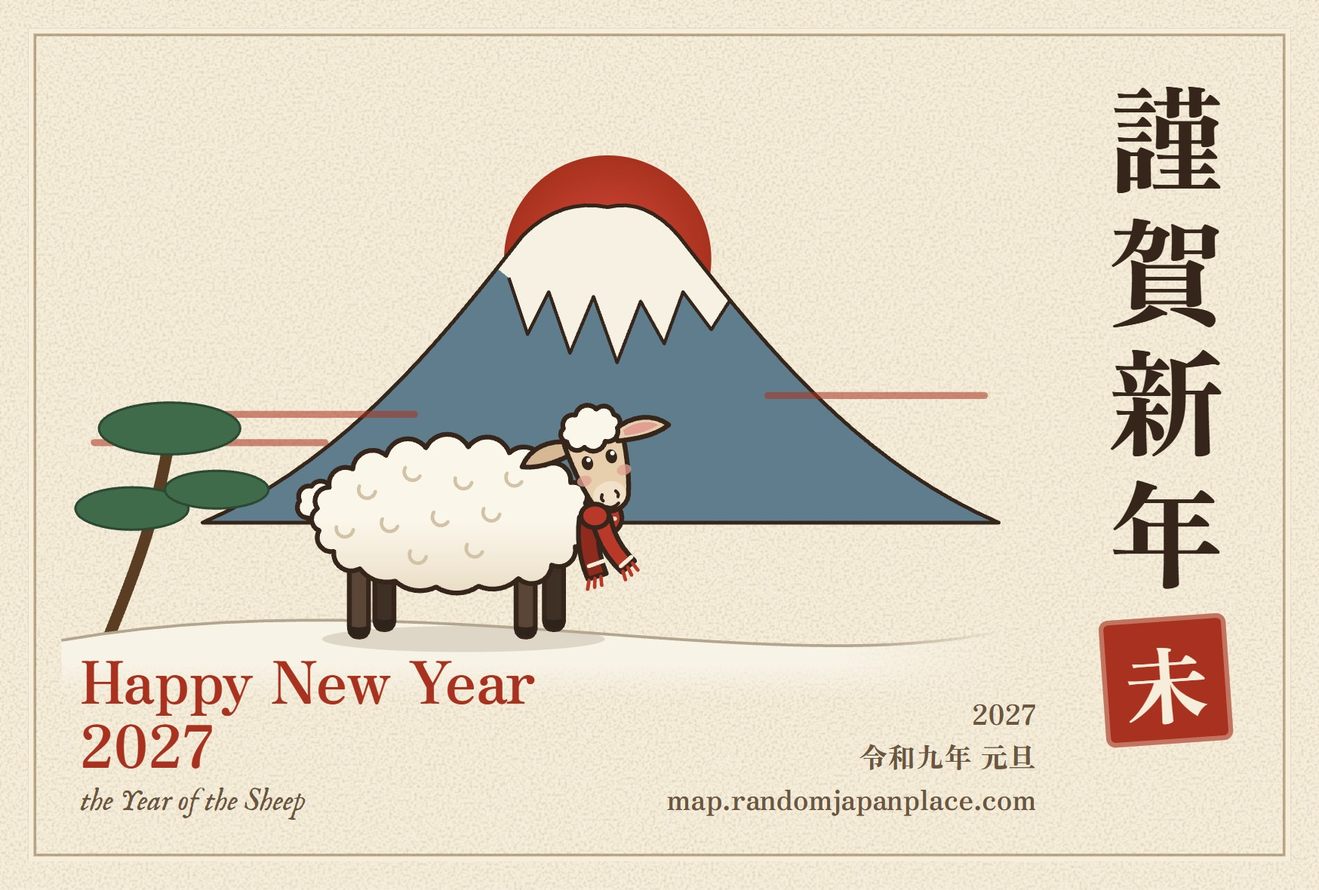
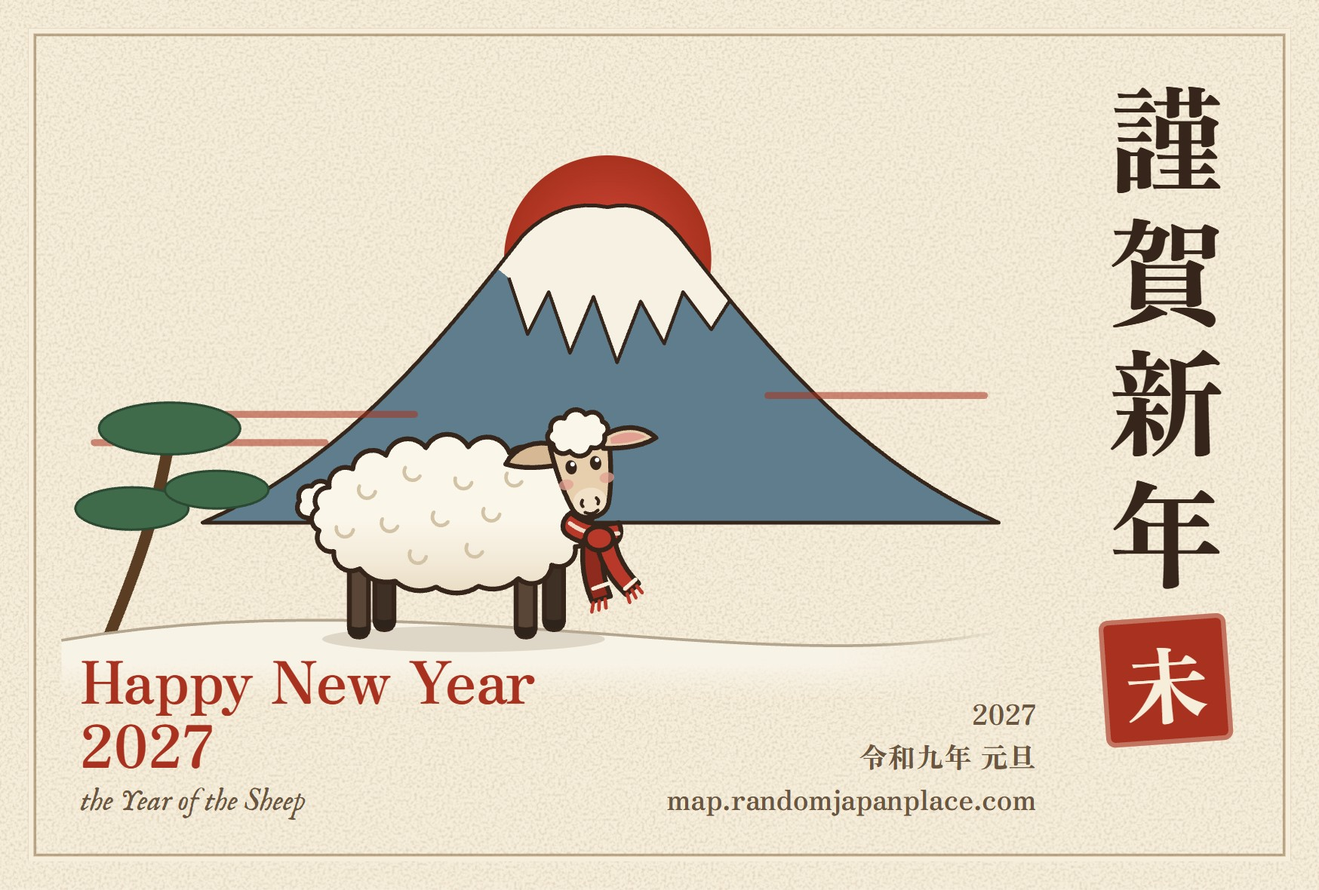
Calendrier de l'Avent (mode développeur) : la tête du mouton accrochée, le fond d'écran du prénom sur papier washi.
Le propriétaire : « Il faut accrocher la tête du mouton et le fond du fond d'écran du prénom peut être en style papier washi. »

- Carte de vœux (case 15) : la tête du mouton est posée plus bas et plus en arrière, sur l'avant de la toison (le cou est caché, l'oreille du côté loin repose sur la laine) ; l'écharpe sort de sous la tête et passe sous le menton.
- Case 1 : le fond d'écran du prénom est sur un papier washi fabriqué par calcul (noel/washi.jpg, 1170 × 2532 ; noel/washi-apercu.jpg pour l'aperçu) : pâte crème nuageuse, traces du tamis, longues fibres de kōzo claires et effilées, quelques brins dorés et d'écorce. Il remplace le papier de journal et son grain.
- L'aperçu de la case : le sceau et INKAMI.ART aux mêmes tailles et places que sur l'image.

Changed region(s): [[0.3707, 0.4271, 0.5252, 0.7017]]

diff --git a/site/noel.js b/site/noel.js
@@ -5,7 +5,7 @@
 // Les cadeaux pas encore faits (pret: false) montrent « En préparation » en mode développeur.
 // Maquette choisie par le propriétaire : l'artifact « Calendrier de l'Avent de la carte ».
 import { echapper, typoFr, partagerFichier, telecharger, tactile } from './commun.js';
-import { chargerImage, adresseGrain } from './bravo-image.js';
+import { chargerImage } from './bravo-image.js';
 import { DESSINS } from './legendes-dessins.js';
 
 const MEMOIRE = 'calendrierOuvert'; // les cases ouvertes (numéros des jours)
@@ -706,26 +706,17 @@ export function brancherNoel(outils) {
     return div;
   }
 
-  /** Le fond d'écran du prénom : 1170 × 2532 (un téléphone), papier de journal, katakana au pinceau, sceau Inkami. */
+  /** Le fond d'écran du prénom : 1170 × 2532 (un téléphone), papier washi (noel/washi.jpg), katakana au pinceau, sceau Inkami. */
   async function fondPrenom(nom) {
     const k = enKatakana(nom) || 'エマ';
     const L = FOND_L, H = FOND_H;
     await document.fonts.load(`200px ${POLICE_PINCEAU}`, k);
-    const [grain, sceau] = await Promise.all([chargerImage(adresseGrain()), chargerImage('noel/sceau-inkami.png')]);
+    const [washi, sceau] = await Promise.all([chargerImage('noel/washi.jpg'), chargerImage('noel/sceau-inkami.png')]);
     const can = document.createElement('canvas');
     can.width = L; can.height = H;
     const c = can.getContext('2d');
-    c.fillStyle = '#ece0d0';
-    c.fillRect(0, 0, L, H);
-    const motif = c.createPattern(grain, 'repeat');
-    motif.setTransform(new DOMMatrix().scale(3));
-    c.fillStyle = motif;
-    c.fillRect(0, 0, L, H);
-    const v = c.createRadialGradient(L / 2, H / 2, H * 0.25, L / 2, H / 2, H * 0.62);
-    v.addColorStop(0, 'rgba(120, 90, 50, 0)');
-    v.addColorStop(1, 'rgba(120, 90, 50, 0.22)');
-    c.fillStyle = v;
-    c.fillRect(0, 0, L, H);
+    // le papier washi (fibres de kōzo, bords un peu plus sombres), fabriqué à la taille de l'image
+    c.drawImage(washi, 0, 0, L, H);
 
     // les katakana, en colonne, dans le bas des deux tiers (le haut reste à l'heure de l'écran verrouillé)
     const signes = [...k];

diff --git a/site/noel.css b/site/noel.css
@@ -116,11 +116,11 @@ body.noel #carte.loin .repere-tete::after { width: auto; height: auto; backgroun
 .noel-champ small { font-size: 11.5px; color: var(--encre-douce, #6a5540); }
 .noel-telephone { width: 104px; aspect-ratio: 1170 / 2532; border-radius: 16px; overflow: hidden; box-shadow: 0 0 0 4px #1d1814, 0 2px 8px rgba(40, 26, 12, .35); margin: 4px; container-type: inline-size; }
 /* le fond d'écran en petit : noel.js place la colonne et le nom en % de la hauteur, la taille en cqw (comme sur l'image) */
-.noel-papier { position: relative; height: 100%; background-color: #ece0d0; background-image: var(--grain); }
+.noel-papier { position: relative; height: 100%; background: #eee5d4 url(noel/washi-apercu.jpg) center / cover; }
 .noel-kata { position: absolute; left: 50%; transform: translateX(-50%); font-family: "Inkami Pinceau", serif; color: #15100e; writing-mode: vertical-rl; text-orientation: upright; line-height: 1; white-space: nowrap; }
 .noel-latin { position: absolute; left: 6%; right: 6%; transform: translateY(-50%); transform-origin: 50% 50%; text-align: center; font: 600 3.76cqw/1 var(--police); letter-spacing: 1.2cqw; /* 44 px et 14 px sur 1 170, comme sur l'image */ color: #15100e; text-transform: uppercase; white-space: nowrap; overflow: hidden; text-overflow: clip; }
-.noel-sceau { position: absolute; bottom: 6%; right: 8%; width: 17px; transform: rotate(-4deg); }
-.noel-adresse { position: absolute; bottom: 5%; left: 9%; font: 600 4.5px/1 var(--police); letter-spacing: .12em; color: #15100e; opacity: .6; }
+.noel-sceau { position: absolute; bottom: 2.86%; right: 8.55%; width: 11.97cqw; transform: rotate(-4deg); } /* 140 px de large, centré à 170 px du coin, comme sur l'image */
+.noel-adresse { position: absolute; top: 95.26%; left: 8.2%; transform: translateY(-50%); font: 600 2.22cqw/1 var(--police); letter-spacing: .43cqw; color: #15100e; opacity: .6; } /* 26 px à 96 px du bord, 120 px du bas */
 
 /* les cadeaux à télécharger : l'aperçu a la forme de la chose (téléphone, page, carte postale, calendrier) */
 .noel-fichier { display: grid; justify-items: center; gap: 10px; }

diff --git a/instructions/carte.md b/instructions/carte.md
@@ -410,14 +410,14 @@ On 2026-11-10 the owner asked to prepare Christmas: an Advent calendar from 1 to
 - **When.** `CONFIG.noel = { debut: '2026-12-01', fin: '2026-12-26', public: false }`. `noelVoulu` (`app.js`): never after `fin` nor with `?ambiance=non`; always in developer mode before `fin` (also before `debut`, to prepare it); else only if `public`, from `debut`. `majNoel` runs like `majHalloween` (1.8 s after start, every minute, in `basculerDev`).
 - **`noel.js`** (its own `TEXTES`, en/fr/ja for the interface). `CASES`: `j`, `k` (`boutique`, `telecharger`, `balade`, `carte`), `lieu` (the place's id: slug of its English name, as in `?voyage=`), `pret` (the gift exists), `special` (`prenom`), `fichier` (a download: see « The downloads »), `code`, and `cadeau`/`texte`/`deco`/`savais` in en and fr (`cadeau` also in ja; the rest falls back to English in Japanese: write it before the release). `jourReel()`: 0 before 1 December, 1–24, 25 after (local dates, days counted between local midnights with `Math.round` for the clock change). Opened boxes: `localStorage.calendrierOuvert`. **Developer mode** adds a « Simulated day » range (24 by default before December) and « Close every box »; boxes opened while simulating are kept apart (`calendrierOuvertEssai`), so the owner's real calendar starts empty.
 - **The panel** (`#panneau-noel`, a `PANNEAUX` entry, `ouvrirNoel`; button `#btn-noel` with a gift icon, also a phone shortcut top right beside 3D and favourites, sized like Halloween's three; phone menu tile `#menu-noel`). Doors in 5 columns, 24 spanning two: locked (`.a-cle`, a toast says when it opens), today (`.du-jour`, red rule), opened (`.ouverte`: the paper leaf turns away, 550 ms, then the box shows under the doors and scrolls into view). A red dot on the button and the menu tile (`.a-ouvrir`) while today's box is closed. The box: date, gift, kind pill, text, its special block, « Being made » (developer mode only) while `pret` is false, the place (« See the place and its video »: `allerAuLieu`, closes the panel), « On the map today », « Did you know? ».
-- **Gifts ready.** Day 1, « Your name in Japanese » (`fondPrenom`): a 1170 × 2532 PNG, newspaper paper #ece0d0 with the map's grain (×3) and a vignette, the katakana in one column centred at 58 % of the height (the top is left to the lock-screen clock; `ー` turned upright, small kana nudged up and right), the name in spaced capitals, INKAMI.ART, the 墨紙 seal (`noel/sceau-inkami.png`). The live preview in the box is that wallpaper in small (2026-11-22, the owner: « quand tu écris un nom un peu trop grand, ça dépasse de l'écran »): the same sizes and places (`FOND_L`, `FOND_H`, `FOND_COLONNE`, `FOND_CENTRE`, `tailleFond` in `noel.js`), the column's top and the name's line in % of the height, their sizes in `cqw` (the phone frame is a size container); it used its own sizes (the column 190 px in a 225 px frame) and an 8-letter name ran out of it. A very long name in letters is squeezed: `scale` on the canvas, `scaleX` on the preview (one measure per key typed). The brush is the shop's own font (`noel/inkami-pinceau.woff2`: Yuji Boku cut to katakana + 芸者侍, OFL) and `enKatakana` is copied from the shop's `theme/source/katakana.js` (plus Emily, James, Louise, the names of its calligraphy videos); a live HTML preview while typing; share sheet on touch screens, download elsewhere. Day 20, « Christmas night over Japan »: `noel/fond-nuit-de-noel-{l}.jpg`, see the downloads below.
+- **Gifts ready.** Day 1, « Your name in Japanese » (`fondPrenom`): a 1170 × 2532 PNG on washi paper (2026-11-22, the owner: « le fond du fond d'écran du prénom peut être en style papier washi »): `noel/washi.jpg` (1170 × 2532, about 300 KB, drawn with its darker edges) and `noel/washi-apercu.jpg` (312 × 675, the box's preview), both computed by `washi.py` (the 2026-11-21/22 session's `scratchpad/noel`, fixed seed): a cream pulp with soft clouds, faint bamboo-screen lines, a felt of short fibres, long white kōzo fibres that taper and wave gently (curvature that returns to zero: a free random walk curled them into hair-like loops, a damped one too much made straight scratches) with a thin shadow on one side, a few gold fibres and few pale bark strands (dark specks looked like dust on the screen); it replaced newspaper #ece0d0 with the map's grain. The katakana in one column centred at 58 % of the height (the top is left to the lock-screen clock; `ー` turned upright, small kana nudged up and right), the name in spaced capitals, INKAMI.ART, the 墨紙 seal (`noel/sceau-inkami.png`). The preview's seal and INKAMI.ART have the image's sizes too (`cqw`, % of the frame; they were 17 px and 4.5 px, larger than on the image). The live preview in the box is that wallpaper in small (2026-11-22, the owner: « quand tu écris un nom un peu trop grand, ça dépasse de l'écran »): the same sizes and places (`FOND_L`, `FOND_H`, `FOND_COLONNE`, `FOND_CENTRE`, `tailleFond` in `noel.js`), the column's top and the name's line in % of the height, their sizes in `cqw` (the phone frame is a size container); it used its own sizes (the column 190 px in a 225 px frame) and an 8-letter name ran out of it. A very long name in letters is squeezed: `scale` on the canvas, `scaleX` on the preview (one measure per key typed). The brush is the shop's own font (`noel/inkami-pinceau.woff2`: Yuji Boku cut to katakana + 芸者侍, OFL) and `enKatakana` is copied from the shop's `theme/source/katakana.js` (plus Emily, James, Louise, the names of its calligraphy videos); a live HTML preview while typing; share sheet on touch screens, download elsewhere. Day 20, « Christmas night over Japan »: `noel/fond-nuit-de-noel-{l}.jpg`, see the downloads below.
 - **The downloads** (owner: « Oui, commence par les téléchargements », 2026-11-10). A box's `fichier` = `{ apercu, url, nom, forme, bouton }` (`{l}` in a path = the visitor's language, fr/en/ja, else en): `blocFichier` shows the preview shaped like the thing (`telephone`, `page`, `carte`, `paysage`) and a button (`fond`, `pdf`, `image`) that fetches the file and sends it to the share sheet on touch screens, else downloads it. All are made once in `site/noel/` from the 2026-11-10 session's `scratchpad/noel/`: `atelier/*.html` are print pages served with the site by `atelier_serveur.py` (127.0.0.1:8124: the site at the root, `/atelier/` the workshop, so they import `/legendes-dessins.js` and share the map's paper and fonts), turned into PDF or PNG by `fabriquer.py <name> [--essai]`.
   - Day 3, `calendrier-2027.pdf` (5.8 MB, A4 landscape, a cover and 12 months, one file for every language): each month a view of the map at its season, rendered by `rendu_calendrier.py` (`?date=2027-MM-DD&heure=11:00`, the borders' layers `lavis*`/`frontieres*` hidden, the HTML markers too, the canvas pins kept; 1600 px JPEG): Gokayama, Lake Kussharo, Fujisan Hongū (cherry petals), Himeji (cherry petals), Fuji Shibazakura, Yakushima, Nachi, Aogashima, Takeda Castle, Nikkō (autumn), Itsukushima (maple leaves), Lake Yamanaka. The map's season particles show by themselves. TikTok covers were too small to print (486 × 648) and the montage videos are not all the owner's footage, so none is used. Weekdays in kanji + English, Saturday blue, Sunday and Japan's 2027 public holidays red, each holiday named (元日 · New Year's Day…, the equinoxes on 21 March and 23 September, substitute holiday 22 March); six-week months get shorter rows.
   - Day 6, `fond-fuji-hiver.jpg` (1170 × 2532): since 2026-11-21 a real photo, see « Real photos for the place wallpapers » below. Until then a map render (`fond_fuji.py`: Fuji from Lake Yamanaka on 2026-12-20 at 15:30, bearing 246, zoom 10.9, pitch 72, with `?points=non` so every pin is an HTML marker and can be hidden, the pins being otherwise drawn on `points.js`'s canvas; borders hidden; the logo band).
   - Day 7, `mots-hiver-{l}.pdf` (2026-11-21, the owner: « un petit document où il y a marqué des mots japonais en rapport avec l'hiver et Noël avec la traduction en anglais et français et une petite description explicative »; about 310 KB, 740 KB in Japanese). Two A4 pages, 24 words, one per day of Advent: winter (冬, 雪, 初雪, 雪だるま, かまくら, こたつ, 鍋, 温泉, 雪見, 樹氷, 冬至, 焼き芋), then Christmas and the New Year (クリスマス, メリークリスマス, サンタさん, クリスマスケーキ, フライドチキン, イルミネーション, お歳暮, 忘年会, 大掃除, 大晦日, 年賀状, お正月). Each: the word in Zen Antique, its hiragana and rōmaji, the English and French translations (red EN/FR labels, the document's language first; 英/仏 in Japanese), and one or two sentences in the document's language; page 2 ends with « あけましておめでとうございます / よいお年を » (in Japanese: Happy New Year / Bonne année). Each word also has a small drawing at its top right (the owner the same day: « si tu peux rajouter quelques illustrations aussi »; and « Le document doit être écrit en français pour la carte en français et en anglais pour la carte en anglais », which it already was): 24 SVG icons in `illus.py`, ink outlines and flat colours like the legends' drawings of the gift tags (a snowy pine, flakes, a cloud, a two-ball snowman with a red bucket, a lit kamakura, a kotatsu with mandarins, a donabe, ♨, sake flask and cup, two snow monsters, yuzu in the bath, a split sweet potato, a decorated tree, two bells, Santa's hat, the strawberry cake, a drumstick, a string of lights, a gift box with mizuhiki, two beer mugs, broom and bucket, the temple bell and its log, a 賀正 card, a kagami-mochi), 40 px, with the word and translation lines padded on the right to leave them room; katakana words of 7 characters or more are set smaller so their rōmaji stays on the line. Map paper, the logo and address at the foot. Made by `mots_hiver.py` (the 2026-11-21 session's `scratchpad/noel`; the words and texts are in it): an HTML page served through a Playwright route on the local server (the logo and the map's fonts), `page.pdf`, the preview = page 1 at 420 × 594. French gets non-breaking spaces before « ; : ! ? » and inside guillemets, English gets “ ”.
   - Day 9, `origami-{l}.pdf` (3 pages, about 2.8 MB; the owner: « Oui, fais l'origami et Gokayama »): two 180 mm squares to cut out, crop marks at the corners, the printed side being the crane's outside: seigaiha waves in the map's sea colours (`#1d5652`, `#8fbab2`) and asanoha hemp leaves in the map's red with pale-gold lines (a triangular lattice and, in each triangle, the lines from its corners to its centre), each with a short note on the pattern's meaning; page 3 the crane in 12 steps (3 × 4 panels, captions of at most three lines in all three languages, a key: valley, mountain, turn over). The panels are computed, not drawn by hand (`origami.html`: a square of side 2 laid as a diamond; the kite folds are the bisectors from the bottom point, the petal fold the reflection of the bottom point over the horizontal crease, the narrowing the bisector again, neck and tail the leg triangle reflected over a crease that bisects « down » and the neck's 65° direction, the head the same at 0.24 from the tip), so every shape is where the paper really goes; only the finished crane (step 12) is drawn by hand. `regarder_ori.py [lang] [from] [to]` shows a few panels at 3×.
   - Day 13, `fond-gokayama-neige.jpg` (1170 × 2532): since 2026-11-21 a real photo, see below. Until then (`fond_gokayama.py`) the walk itself (`balade/index.html?lieu=gokayama&demo`), winter (`balade.changerSaison('hiver', { tout: true })`), night (`balade.jeu.nuit(true)`), traveller and companion hidden (`jeu.cacherVoyageur(true)`), the interface hidden (`body.photo`), the camera placed like the binoculars' (`M.cadre = { de, vers, champ }`, heights above the place's ground), the frames stepped with `__pas(0.05)`. The house g7 from the south-west (camera at −7, 12.5 m up, 79; looking at 26, 4, 44; 52°), a second house behind, a stone lantern. Lessons: `jeu.nuit()` returns a promise that resolves only once night has fallen, and in `?demo` nothing falls without `__pas`: an `evaluate` that returns it hangs (end it with `; 0`). The moon lights from the south-west (`soleil: [-0.45, 0.72, 0.52]`): seen from the north-east the roofs were navy blue, from the south-west white. `document.fonts.check` stayed false for Zen Antique (its Japanese subsets): wait with `document.fonts.load(font, text)` instead. From the riverbank (z > 85) the camera sits below the bank's edge.
-  - Day 15, `nengajo-2027-{l}.jpg` (1748 × 1181, 148 × 100 mm at 300 dpi): 謹賀新年, a sheep (未, 2027) with a red scarf before Fuji and the first sunrise, a pine, 令和九年 元旦, the greeting in the language. The sheep was redrawn on 2026-11-22 (the owner: « il est mal fait, il y a certaines formes qui vont pas »), computed by `mouton.py` (the 2026-11-21/22 session's `scratchpad/noel`; it writes into `atelier/nengajo.html`): a fleece of 20 even scallops on an ellipse (`feston`, flatter under the belly) with a soft belly shade and wool curls, a tail puff, an egg-shaped beige face turned toward the sunrise with eyes, blush, muzzle and nostrils, two leaf ears and a woolly topknot, slim legs with hooves (the far pair darker), the scarf knotted under the chin with two fringed tails; 1.2× larger, facing right. The same day: Fuji's snowcap as pointed streaks (clipped by the mountain), and the snow ground fades into the paper (it showed a box edge).
+  - Day 15, `nengajo-2027-{l}.jpg` (1748 × 1181, 148 × 100 mm at 300 dpi): 謹賀新年, a sheep (未, 2027) with a red scarf before Fuji and the first sunrise, a pine, 令和九年 元旦, the greeting in the language. The sheep was redrawn on 2026-11-22 (the owner: « il est mal fait, il y a certaines formes qui vont pas »), computed by `mouton.py` (the 2026-11-21/22 session's `scratchpad/noel`; it writes into `atelier/nengajo.html`): a fleece of 20 even scallops on an ellipse (`feston`, flatter under the belly) with a soft belly shade and wool curls, a tail puff, an egg-shaped beige face turned toward the sunrise with eyes, blush, muzzle and nostrils, two leaf ears and a woolly topknot, slim legs with hooves (the far pair darker), the scarf knotted under the chin with two fringed tails; 1.2× larger, facing right. Then the same evening (the owner: « il faut accrocher la tête du mouton »: it stood beside the fleece, touching it at one point): the head sits lower and further back (`TETE`), its back half over the front of the fleece, so the neck is hidden and the far ear lies on the wool (a higher head left a hollow of background between ear, head and fleece; a tuft added to fill it showed its own outline there); the scarf band comes out from under the head with a rounded end, under the chin (`ECHARPE`, `NOEUD`). `mouton_variantes.py variantes.json` draws several settings side by side. The same day: Fuji's snowcap as pointed streaks (clipped by the mountain), and the snow ground fades into the paper (it showed a box edge).
   - Day 18, `etiquettes-{l}.pdf` (2 pages): eight tags with the legends' drawings (tanuki, kitsune, the moon rabbit, Yuki-onna, Kintarō, Momotarō, Kaguya-hime, kappa), « Pour / De » lines; page 2 the furoshiki wrap in four drawn steps.
   - Day 20, `fond-nuit-de-noel-{l}.jpg` (redone 2026-11-12, the owner: « sans les points des lieux et en rendant un style un peu plus Noël »; `fond_noel2.py`): the map on 2026-12-24 at 21:30 (bearing 36, centre 137.75 / 37.0, zoom 4.12) with `?points=non` and every marker hidden (no pins, no city icons, no sea names), the `lavis*`/`frontieres*` layers hidden, the `saison-neige` fill set to a moonlit `#c3cde2` at 0.55 (set again just before the capture: the map puts its own colours back), then a canvas drawn in the page: a blue-night vignette, the illuminations (a gold glow and red, green, white and blue points at each `VILLES` city, bigger for Tokyo and Osaka), a garland of bulbs in two swags along the top (above the lock-screen clock), snowflakes (soft blurred ones, small dots, eight drawn crystals), and the title in the Pacific in the map's fonts (« Joyeux Noël » / « Merry Christmas » on two lines in IM Fell English italic, « メリークリスマス » in Zen Antique for Japanese, the other language under it) with a holly sprig; the logo band and the sources as before. One file per language. **Sharper since 2026-11-22** (the owner: « quand tu zoomes un petit peu sur la carte, il est pixelisé »): two causes. Headless Edge draws without a GPU, so `qualite.js` chose « très légère » (terrain textures 1024, the relief blurry): the script now forces `localStorage.qualite = { impose: 'fine' }`. And MapLibre picks its relief tiles from the size in CSS pixels, with a pixel ratio of at most 2: at 390 × 844 × 3 it drew zoom-4 tiles on a 780 × 1688 canvas, stretched 3.3 times. It now renders 585 × 1266 × 2 (the same 1170 × 2532 image), zoom 4.12 + log2 1.5 (tiles of zoom 5), the decorations drawn in the 390-wide frame scaled by 1.5 and the band with CSS `zoom`; JPEG quality 93 (about 500 KB). The water rings and coast lines are 2 device pixels instead of 3. The script's later retouches of 2026-11-12 had been made by Python patches the log replays (the moonlit snow `#c3cde2`, the title's place and sizes); Windows had emptied the scratchpad again, rebuilt by `recuperer.py` (Write/Edit of the session's log) plus those patches.
   - Day 23, `recette-{l}.pdf`: the strawberry shortcake for an 18 cm tin (3 eggs, 90 g sugar, 90 g flour, 20 g butter, 20 ml milk; syrup; 400 ml cream, 35 g sugar; 500 g strawberries), 9 steps, the 1974 fried-chicken fact. The cake drawing was redone on 2026-11-22 (the owner: « l'image du gâteau, faut que tu la refasses parce qu'elle est un peu mal faite »), computed in perspective by `gateau.py` (same scratchpad; it writes into `atelier/recette.html`): a cylinder seen from three-quarters with a slice cut from the front (angles 62°–108°), its two cut faces in layers (cream, sponge with holes, cream with halved strawberries, sponge, cream), a crown of piped cream rosettes topped with whole strawberries (seeds, highlight), the chocolate « Merry Christmas » plaque, a piped border at the foot, on a plate. The steps were set a little smaller (10 pt, gap 2.2 mm): in this Edge the last step ran under the « Did you know? » box; `fabriquer.py` now refuses a page whose steps overflow or run under the next block.

diff --git a/LISEZMOI.md b/LISEZMOI.md
@@ -169,7 +169,7 @@ Du 1er au 24 décembre, une case s'ouvre chaque jour (à minuit chez chaque visi
   - **22, le bain de yuzu** : à partir du 22, un yuzu flotte à côté de chaque onsen de la carte. Les trouver tous donne un koban pour la boutique de Bunbuku, dans la balade 3D.
   - **24, la nuit de Noël** : six Jizō de pierre, en vraies petites statues 3D, attendent sous la neige en rang devant le temple du Murō-ji, trois de chaque côté de l'escalier ; on touche chacun pour lui poser un chapeau de paille, et ils offrent le bonnet de Père Noël de la balade (le bonnet lui-même est encore à faire dans la balade, avec les autres habits d'hiver). Le bouton « Voir les six Jizō » de la case emmène jusqu'à eux. La nuit, le traîneau du Père Noël, tiré par quatre rennes (Rudolph devant, avec son nez rouge), traverse le ciel de la carte juste sous les boutons du haut, en lâchant des cadeaux.
   - En mode développeur, avant décembre, tout se voit déjà sur la carte (comme le 24). Les yuzus et les chapeaux trouvés pendant ces essais sont gardés à part, et ne donnent ni vrai koban ni vrai bonnet.
-- **Tes remarques du 22 novembre**, toutes faites : un long prénom ne déborde plus de l'aperçu de la case 1 ; plus de mention de la photo sur les fonds d'écran 6 et 13 ; le kanji de l'année se met à jour tout seul ; un nouveau traîneau avec de vrais rennes et des cadeaux qui tombent, qui ne passe plus derrière les bandeaux ; le mouton de la carte de vœux redessiné (et la neige du Fuji) ; le fond d'écran de la carte (case 20) deux fois plus net ; le gâteau de la recette redessiné (avec une part coupée qui montre la génoise, la crème et les fraises) ; les six Jizō autour du temple.
+- **Tes remarques du 22 novembre**, toutes faites : un long prénom ne déborde plus de l'aperçu de la case 1 ; plus de mention de la photo sur les fonds d'écran 6 et 13 ; le kanji de l'année se met à jour tout seul ; un nouveau traîneau avec de vrais rennes et des cadeaux qui tombent, qui ne passe plus derrière les bandeaux ; le mouton de la carte de vœux redessiné (et la neige du Fuji) ; le fond d'écran de la carte (case 20) deux fois plus net ; le gâteau de la recette redessiné (avec une part coupée qui montre la génoise, la crème et les fraises) ; les six Jizō autour du temple. Puis le même soir : la tête du mouton est bien accrochée à sa toison, et le fond d'écran du prénom est sur du papier washi (avec ses fibres).
 - **Les autres cadeaux** (les habits d'hiver de la balade et les cases de la boutique) affichent « En préparation » (en mode développeur seulement). Ils seront faits avant décembre.
 - **Les cases de la boutique Inkami** (4, 10, 17 et 21) montrent un code d'exemple et un lien vers la boutique. Les vrais codes seront créés dans Shopify avec ton accord.
 - **Pour l'essayer maintenant :** passe en mode développeur. Le calendrier se voit déjà, comme si on était le 24 décembre. Une réglette « Jour simulé » montre comment il se présente un autre jour. Les cases ouvertes pendant ces essais sont gardées à part : ton vrai calendrier restera tout neuf le 1er décembre.
